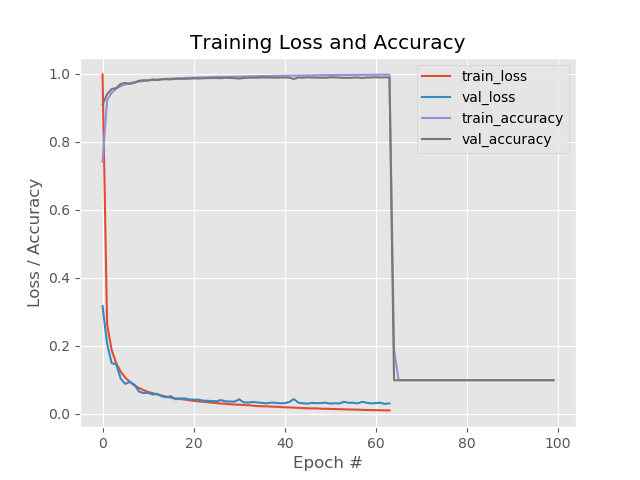
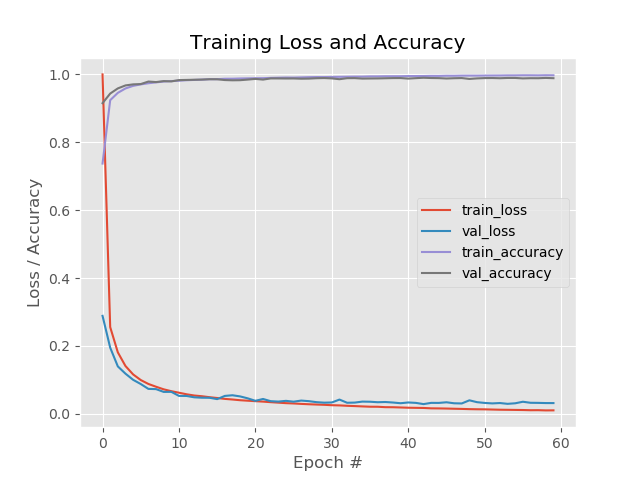
feat: 补全LeNet的描述

diff --git a/deep_learning/net_util/src/conv_net_factory.py b/deep_learning/net_util/src/conv_net_factory.py
@@ -14,13 +14,35 @@ class ConvNetFactory(object):
     @staticmethod
     def build(name, *args, **kargs):
         mappings = {
-            "shallownet": ConvNetFactory.ShallowNet
-            # "lenet": ConvNetFactory.LeNet,
+            "shallownet": ConvNetFactory.ShallowNet,
+            "lenet": ConvNetFactory.LeNet,
             # "karpathynet": ConvNetFactory.KarpathyNet,
-            # "minivggnet": ConvNetFactory.MiniVGGNet
+            "minivggnet": ConvNetFactory.MiniVGGNet
         }
         builder = mappings.get(name, None)
         return builder(*args, **kargs)
+
+    @staticmethod
+    def MiniVGGNet():
+        pass
+
+    @staticmethod
+    def LeNet(channels, height, width, classes, **kwargs):
+        model = Sequential()
+        input_shape = (height, width, channels)
+        if "channels_first" == K.image_data_format:
+            input_shape = (channels, height, width)
+        model.add(Conv2D(20, (5, 5), padding="same", input_shape=input_shape))
+        model.add(Activation("relu"))
+        model.add(MaxPooling2D(pool_size=(2, 2), strides=(2, 2)))
+        model.add(Conv2D(50, (5, 5), padding="same"))
+        model.add(Activation("relu"))
+        model.add(MaxPooling2D(pool_size=(2, 2), strides=(2, 2)))
+        model.add(Flatten())
+        model.add(Dense(500))
+        model.add(Activation("relu"))
+        model.add(Dense(classes))
+        model.add(Activation("softmax"))
 
     @staticmethod
     def ShallowNet(channels, height, width, classes, **kwargs):

diff --git a/deep_learning/handwritten_digits/lenet_mnist.py b/deep_learning/handwritten_digits/lenet_mnist.py
@@ -21,7 +21,7 @@ CONSOLE = logging.getLogger("dev")
 CONSOLE.setLevel(logging.DEBUG)
 CONSOLE.info("LeNet使用 %s", __version__)
 
-EPOCHS = 60
+EPOCHS = 40
 BS = 128
 
 if "__main__" == __name__:

diff --git a/deep_learning/README.md b/deep_learning/README.md
@@ -13,3 +13,11 @@ Computer Version With deep learning
 ```
 > 执行以上内容输出当前可用的GPU列表
 
+##### MiniVGGNet
+MiniVGGNet由两套CONV => RELU => CONV => RELU = >池组成
+层，后面是一组FC => RELU => FC => 软最大层。前两层CONV
+将学习32个过滤器，每个3×3大小。后两个CONV层将学习64个过滤器，同样，每个
+尺寸为3×3。我们的POOL图层将在2×2的窗口内以2×2的步幅执行最大池化
+
+
+
